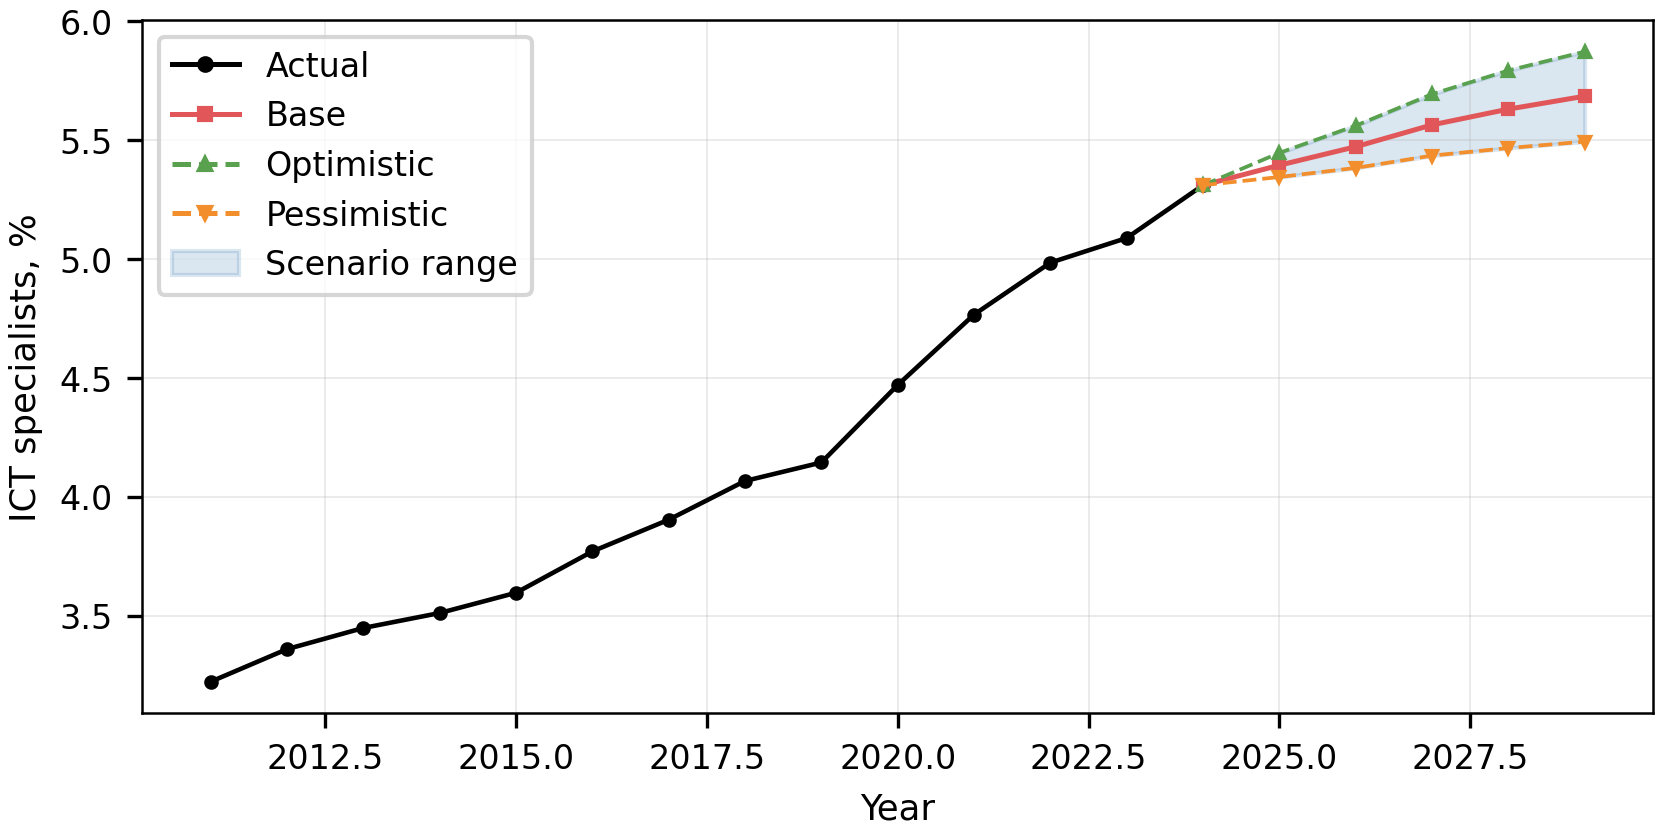
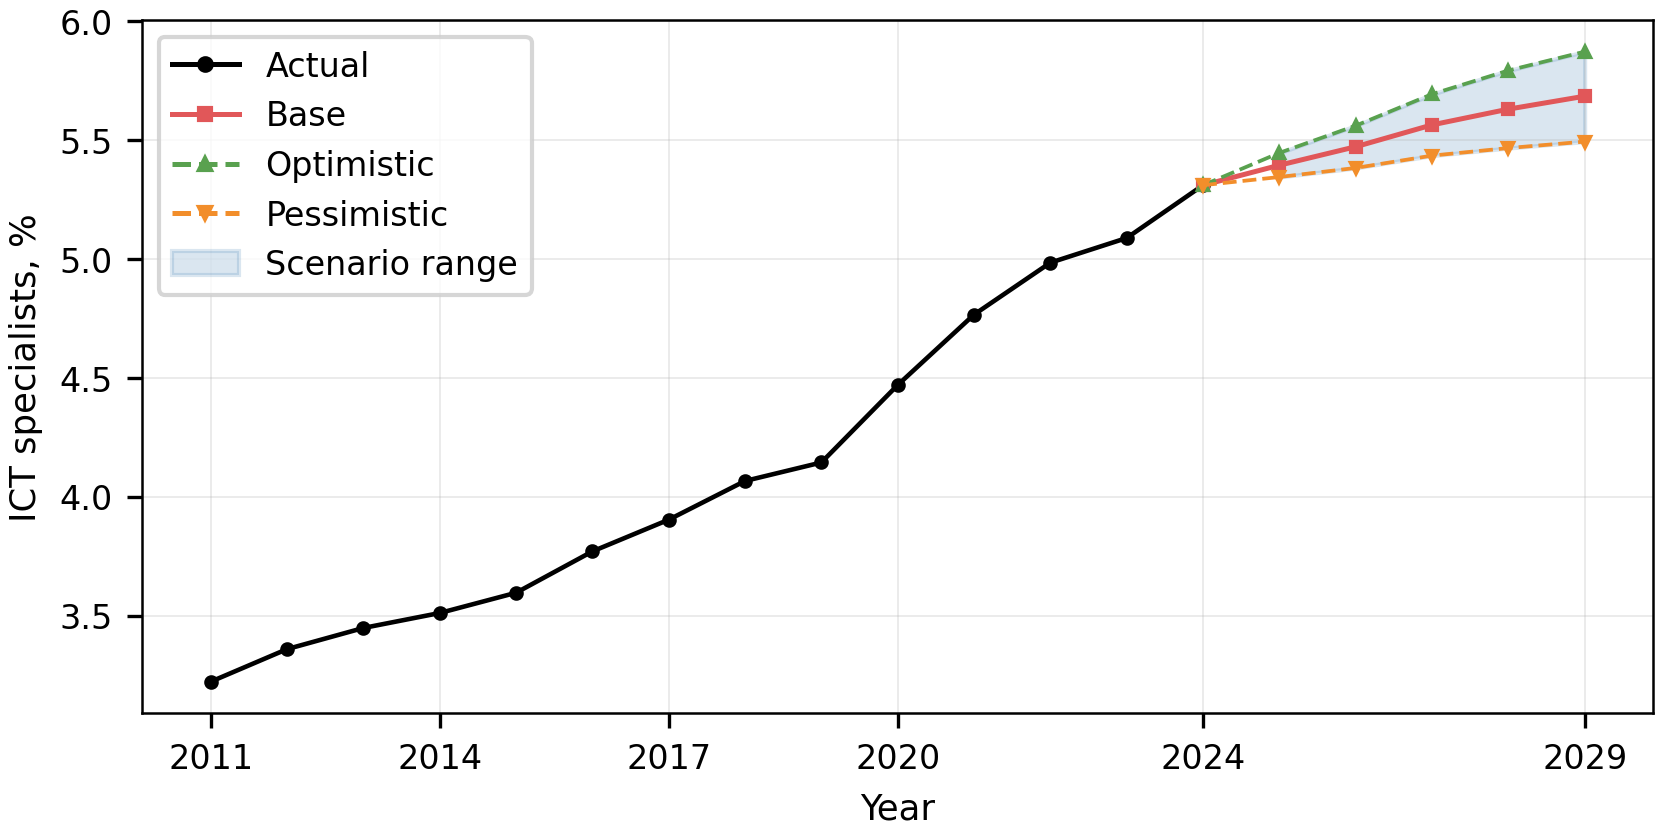
Add English version of the research design figure; update scenario figure

diff --git a/14_figures_print.py b/14_figures_print.py
@@ -64,7 +64,54 @@ def save(fig, name):
 
 
 # ---------------------------------------------------------------- 1. схема
-def fig_design():
+DESIGN_TEXT = {
+    'uk': [
+        ('Етап 1. Формування панельного датасету',
+         'Eurostat, World Bank: 27 країн ЄС × 2004–2024 рр.\n'
+         'цільова змінна — частка ІКТ-спеціалістів у зайнятості (%), 8 екзогенних предикторів'),
+        ('Етап 2а. Локальні моделі',
+         'окрема модель для кожної країни,\nлише власна історія ряду\n\n'
+         'статистичні: ARIMA(1,1,1), ETS\nML: Prophet'),
+        ('Етап 2б. Панельні моделі',
+         'одна модель для всіх 27 країн, 16 ознак:\nлаги, ковзні середні, екзогенні змінні\n\n'
+         'ML: дерево рішень → випадковий ліс\n→ XGBoost'),
+        ('Етап 3. Оцінювання точності',
+         'крос-валідація з розширюваним вікном: 12 точок прогнозу, тестові роки 2013–2024,\n'
+         'прогноз на 1 рік уперед, 323 спільні прогнози; метрики MAE, RMSE, MAPE;\n'
+         "тест Дібольда-Маріано (об'єднаний і панельний); перевірки робастності"),
+        ('Етап 4. Інтерпретація та комбінування',
+         'SHAP-декомпозиція моделі XGBoost: внесок авторегресійних та екзогенних ознак\n'
+         'ансамбль ARIMA + XGBoost з рівними вагами'),
+        ('Етап 5. Прогноз і сценарії на 2025–2029 рр.',
+         'ітеративний прогноз усіма моделями; три сценарії (50%, 100% і 150% приросту\n'
+         'базової траєкторії ARIMA + XGBoost) для кожної країни та агрегату ЄС-27'),
+    ],
+    'en': [
+        ('Stage 1. Building the panel dataset',
+         'Eurostat, World Bank: 27 EU countries × 2004–2024\n'
+         'target variable: ICT specialists, % of total employment; 8 exogenous predictors'),
+        ('Stage 2a. Local models',
+         'a separate model for each country,\nusing only the series\' own history\n\n'
+         'statistical: ARIMA(1,1,1), ETS\nML: Prophet'),
+        ('Stage 2b. Panel models',
+         'one model for all 27 countries, 16 features:\nlags, rolling means, exogenous variables\n\n'
+         'ML: decision tree → random forest\n→ XGBoost'),
+        ('Stage 3. Accuracy evaluation',
+         'expanding-window cross-validation: 12 forecast origins, test years 2013–2024,\n'
+         'one-year-ahead forecasts, 323 common forecasts; metrics: MAE, RMSE, MAPE;\n'
+         'Diebold–Mariano test (pooled and panel); robustness checks'),
+        ('Stage 4. Interpretation and combination',
+         'SHAP decomposition of XGBoost: contributions of autoregressive and exogenous\n'
+         'features; equal-weight ARIMA + XGBoost ensemble'),
+        ('Stage 5. Forecasts and scenarios for 2025–2029',
+         'recursive forecasts from all models; three scenarios (50%, 100% and 150%\n'
+         'of baseline ARIMA + XGBoost growth) for each country and the EU-27 aggregate'),
+    ],
+}
+
+
+def fig_design(lang='uk'):
+    s1, s2a, s2b, s3, s4, s5 = DESIGN_TEXT[lang]
     ink, edge = '#1f2a36', '#4e6a85'
     fig, ax = plt.subplots(figsize=(W, 5.6))
     ax.set_xlim(-0.012, 1.012)
@@ -86,39 +133,26 @@ def fig_design():
 
     X, Wd, G = 0.0, 1.0, 0.035
     y, h = 1.0, 0.125
-    box(X, y - h, Wd, h, 'Етап 1. Формування панельного датасету',
-        'Eurostat, World Bank: 27 країн ЄС × 2004–2024 рр.\n'
-        'цільова змінна — частка ІКТ-спеціалістів у зайнятості (%), 8 екзогенних предикторів')
+    box(X, y - h, Wd, h, *s1)
     arrow(0.5, y - h, 0.5, y - h - G)
     y -= h + G
     h, half = 0.235, 0.49
-    box(X, y - h, half, h, 'Етап 2а. Локальні моделі',
-        'окрема модель для кожної країни,\nлише власна історія ряду\n\n'
-        'статистичні: ARIMA(1,1,1), ETS\nML: Prophet', fill='#e6eef7')
-    box(1 - half, y - h, half, h, 'Етап 2б. Панельні моделі',
-        'одна модель для всіх 27 країн, 16 ознак:\nлаги, ковзні середні, екзогенні змінні\n\n'
-        'ML: дерево рішень → випадковий ліс\n→ XGBoost', fill='#f7ebe9')
+    box(X, y - h, half, h, *s2a, fill='#e6eef7')
+    box(1 - half, y - h, half, h, *s2b, fill='#f7ebe9')
     arrow(half / 2, y - h, 0.42, y - h - G)
     arrow(1 - half / 2, y - h, 0.58, y - h - G)
     y -= h + G
     h = 0.155
-    box(X, y - h, Wd, h, 'Етап 3. Оцінювання точності',
-        'крос-валідація з розширюваним вікном: 12 точок прогнозу, тестові роки 2013–2024,\n'
-        'прогноз на 1 рік уперед, 323 спільні прогнози; метрики MAE, RMSE, MAPE;\n'
-        "тест Дібольда-Маріано (об'єднаний і панельний); перевірки робастності")
+    box(X, y - h, Wd, h, *s3)
     arrow(0.5, y - h, 0.5, y - h - G)
     y -= h + G
     h = 0.13
-    box(X, y - h, Wd, h, 'Етап 4. Інтерпретація та комбінування',
-        'SHAP-декомпозиція моделі XGBoost: внесок авторегресійних та екзогенних ознак\n'
-        'ансамбль ARIMA + XGBoost з рівними вагами')
+    box(X, y - h, Wd, h, *s4)
     arrow(0.5, y - h, 0.5, y - h - G)
     y -= h + G
     h = 0.13
-    box(X, y - h, Wd, h, 'Етап 5. Прогноз і сценарії на 2025–2029 рр.',
-        'ітеративний прогноз усіма моделями; три сценарії (50%, 100% і 150% приросту\n'
-        'базової траєкторії ARIMA + XGBoost) для кожної країни та агрегату ЄС-27')
-    save(fig, "fig01_research_design.png")
+    box(X, y - h, Wd, h, *s5)
+    save(fig, "fig01_research_design.png" if lang == 'uk' else f"fig01_research_design_{lang}.png")
 
 
 # ---------------------------------------------------------------- 2. динаміка
@@ -338,6 +372,7 @@ def fig_scenarios():
                Patch(color='steelblue', alpha=0.2, label='Scenario range')]
     fig, ax = plt.subplots(figsize=(W, 3.0))
     draw(ax, hist, eu)
+    ax.set_xticks([2011, 2014, 2017, 2020, 2024, 2029])
     ax.set_xlabel('Year')
     ax.set_ylabel('ICT specialists, %')
     ax.legend(handles=handles, loc='upper left')
@@ -359,6 +394,7 @@ def fig_scenarios():
 
 if __name__ == "__main__":
     fig_design()
+    fig_design('en')
     fig_trends()
     fig_2011_2024()
     fig_corr()
